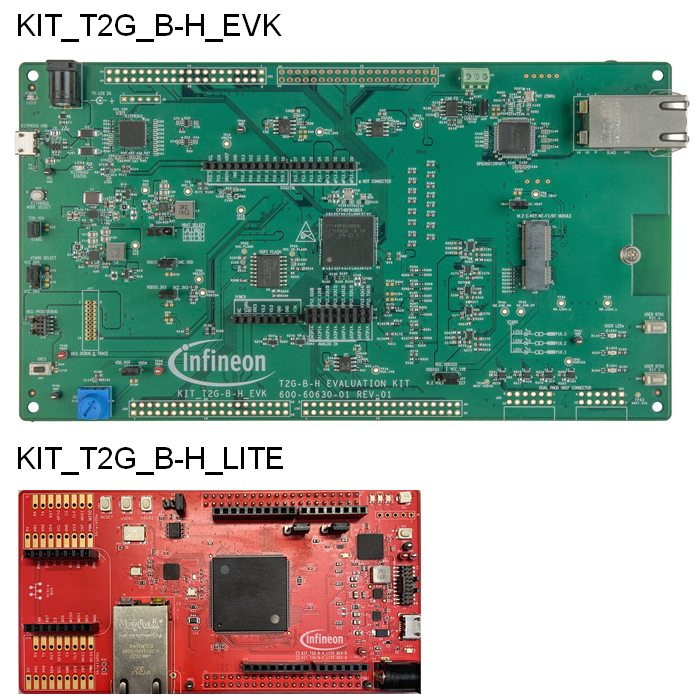
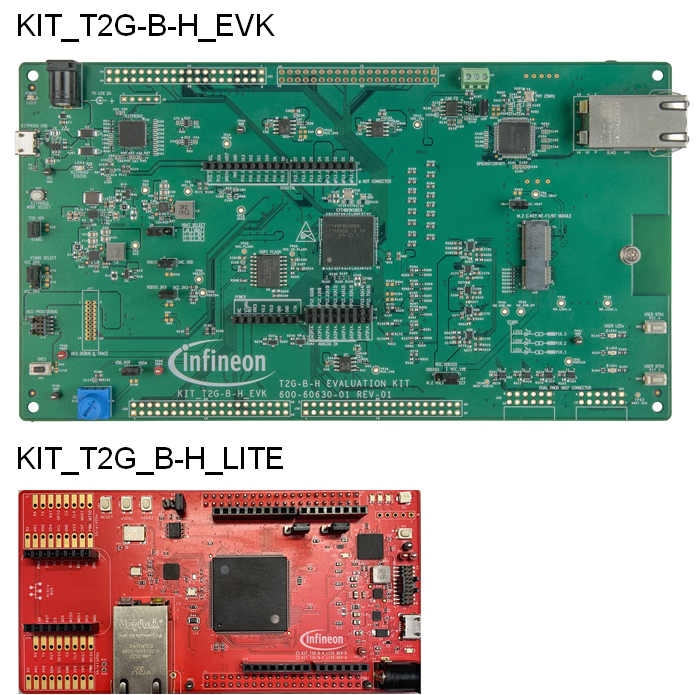
Update board name

diff --git a/README.md b/README.md
@@ -49,9 +49,9 @@ The code examples supports the following types of boards: <br>
 
 
 
-|   Overview                    |KIT_T2G-B-H_EVK         |KIT_T2G-B-H_LITE          |
+|   Overview                    |KIT_T2G-B-H_EVK         |KIT_T2G_B-H_LITE          |
 |-------------------------------|------------------------|--------------------------|
-|MCU                            |CYT4BFBCHE (272pin-BGA) |CYT4BF8CEE (176pin-TEQFP) |
+|MCU                            |CYT4BFBCHE (272pin-BGA) |CYT4BF8CDS (176pin-TEQFP) |
 |Kitprog3 programming/Debug     |✓                       |✓                        |
 |USER LEDs/Buttons/Potentiometer|✓                       |✓                        |
 |CAN FD                         |✓                       |✓                        |
